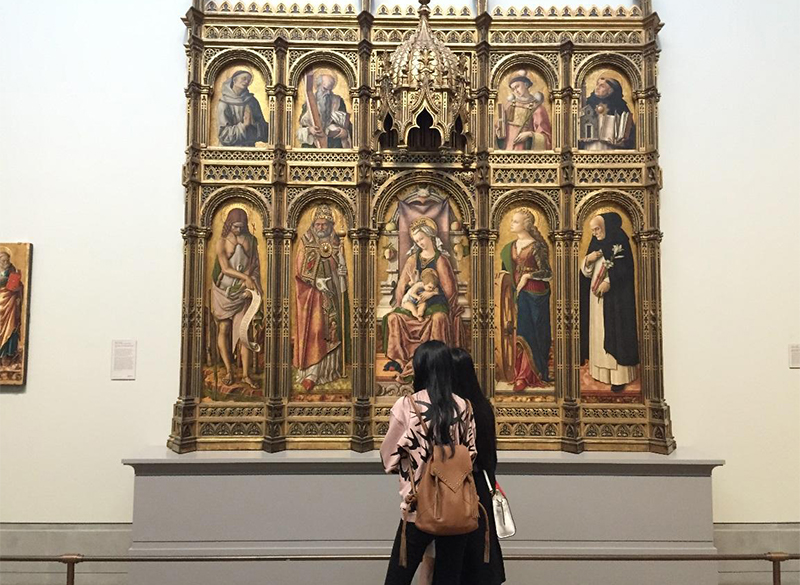
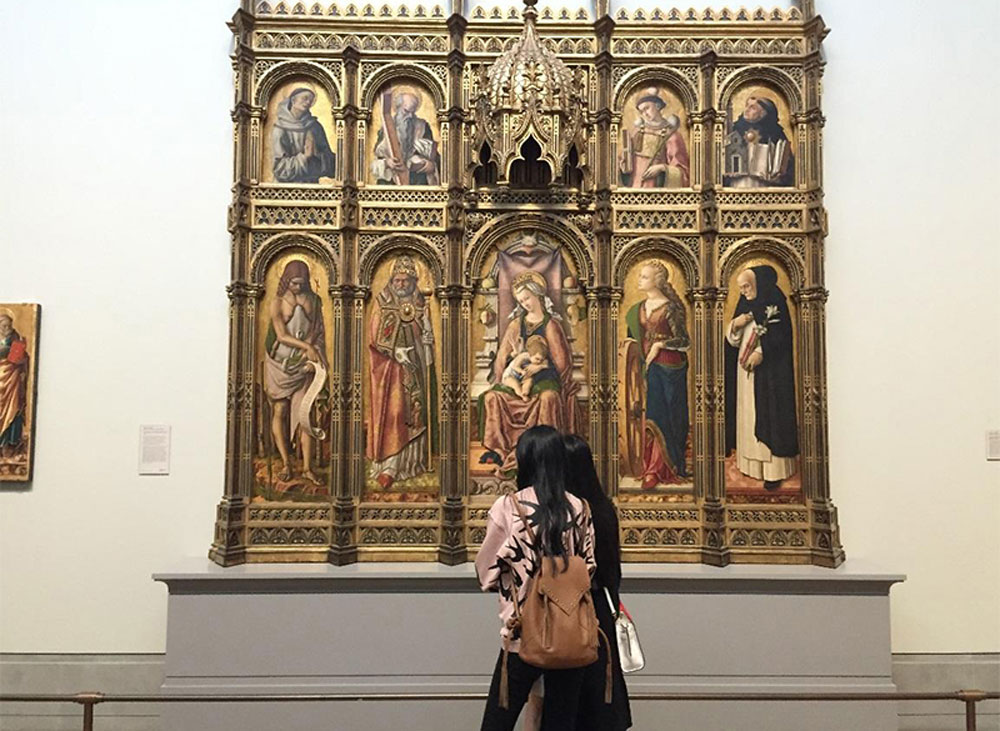
optimised images, updated posts and projects page

diff --git a/content/pages/projects.md b/content/pages/projects.md
@@ -16,14 +16,14 @@ So the final Future of Strategy report was based on a global survey: phone, Skyp
 
 It’s since been a big success for the company. Not only is it the most-read report of the year on WARC, it has been presented on stage at some of the industry’s biggest events: from the Cannes Lions to Brand Week Istanbul.
 
-![brand week istanbul](/media/projects-fos-2.jpeg)
+![brand week istanbul](/media/projects-fos-2.jpg)
 *That’s me in the back, somewhere*
 
 Researching, writing and promoting the report became more than just a side project to me. It was personally inspiring to see how many debates the report has sparked, and how widely it’s been shared.
 
 ###Artangled
 
-![artangled screenshot](/media/projects-artangled-1.png)
+![artangled screenshot](/media/projects-artangled-1.jpg)
 
 Visual art is a major passion of mine. To practice Git and CSS, and give me a place to publish my (copious) notes from art shows, I built [this deliberately simple website](http://www.artangled.com), using Github Pages and Jekyll. Which I thoroughly recommend for mini-projects like this, given that it’s free hosting and you don’t have to bother with anything as complicated as a CMS.
 
@@ -35,7 +35,7 @@ I wrote a bit more about my obsessive visual art hobby [in this post](https://jo
 
 ###WARC 100
 
-![warc 100 screenshot](/media/projects-warc100-1.png)
+![warc 100 screenshot](/media/projects-warc100-1.jpg)
 *Pre-rebranding to WARC Rankings*
 
 This was the first digital product I built from the ground up, from initial idea to final release.
@@ -50,7 +50,7 @@ Now rebranded as [WARC Rankings](https://www.warc.com/rankings), it’s become a
 
 ###Agency Finder
 
-![agency finder presentation](/media/projects-agency-finder-1.png)
+![agency finder presentation](/media/projects-agency-finder-1.jpg)
 
 This was my final project at General Assembly. I came up with the idea that, as my friends and peers at ad agencies were constantly changing jobs, there was a gap in the market for a specialist job finding service that complemented LinkedIn. [Full deck here](https://www.slideshare.net/secret/JtXgtAa9Zyl32i).
 
@@ -58,7 +58,7 @@ Other than this idea (I still think the gap’s there…), the project gave me t
 
 ###Novelty Magazine
 
-![novelty logo](/media/projects-novelty-magazine-1.png)
+![novelty logo](/media/projects-novelty-magazine-1.jpg)
 
 I contributed features to this cultural affairs quarterly, writing on anything from the travials of being a cyclist in London to my morally dubious Deliveroo addiction.
 

diff --git a/content/posts/2016-10-16---social-gaming-good.md b/content/posts/2016-10-16---social-gaming-good.md
@@ -15,7 +15,7 @@ description: "It’s a question we’ve all asked ourselves as we scroll through
 
 Two of digital's most-popular by-products, social media and gaming, were put under the microscope by a series of speakers at Unfolded, an event organised by [London-based creative agency Fold7](http://fold7.com/) and held yesterday night.
 
-![](/media/social-gaming-good-1.png)
+![](/media/social-gaming-good-1.jpg)
 *L-R: Lewis, Talks, Dunbar, Good - Image source, Fold7*
 
 First up was Professor Robin Dunbar, an Oxford academic and creator of [Dunbar’s Number](https://en.wikipedia.org/wiki/Dunbar%27s_number), which suggests that humans can comfortably maintain only 150 stable relationships. Then came Helen Lewis, deputy editor of political magazine The New Statesman and inventor of another social metric: [Lewis' law](http://geekfeminism.wikia.com/wiki/Lewis'_Law) holds that "the comments on any article about feminism justify feminism". Also speaking were Martin Talks, founder of [Digital Detoxing](http://www.digitaldetoxing.com/) - a company that takes participants on activity holidays on the proviso they leave their devices behind - and [cyber psychologist Berni Good](http://www.cyberpsychologist.co.uk/), an academic expert on gaming.

diff --git a/content/posts/2018-02-04---product-martyr.md b/content/posts/2018-02-04---product-martyr.md
@@ -13,7 +13,7 @@ description: "Being a product manager means that you have a lot of responsibilit
 
 > “Being a product manager means that you have a lot of responsibility, but no authority.”  
 
-![](/media/product-martyr-1.png)
+![](/media/product-martyr-1.jpg)
 
 This simple statement has the ring of truth to me. I found it in Matt LeMay’s really useful book, ‘[Product Management Fundamentals](http://shop.oreilly.com/product/0636920086567.do)‘. Here’s how I feel about the responsibility/authority divide.
 
